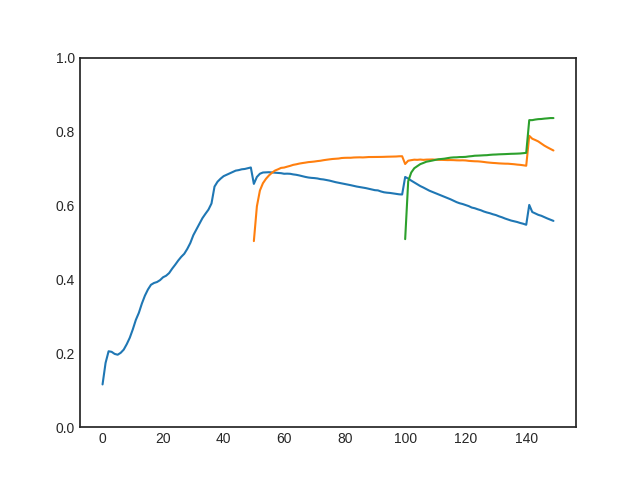
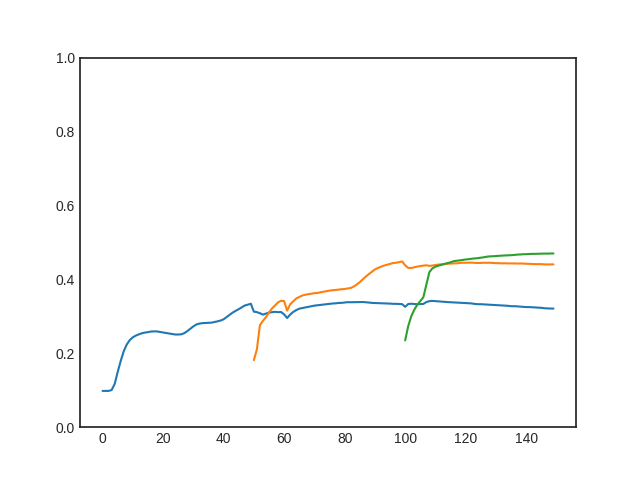
Bug fixes

diff --git a/utils.py b/utils.py
@@ -17,12 +17,14 @@ class EWC(object):
     def __init__(self, model: nn.Module, dataset: list, config):
 
         self.model = model
-        self.dataset = dataset
+        self.data_domain = dataset
         self.config = config
+        self.nllloss = torch.nn.NLLLoss()
 
         self.params = {n: p for n, p in self.model.named_parameters() if p.requires_grad}
         self._means = {}
         self._precision_matrices = self._diag_fisher()
+
 
         for n, p in deepcopy(self.params).items():
             self._means[n] = variable(p.data)
@@ -35,17 +37,17 @@ class EWC(object):
             precision_matrices[n] = p
 
         self.model.eval()
-        for input_data_number, input_data in enumerate(self.dataset):
+        for input_data_number, (x, l, lab) in enumerate(self.data_domain):
             self.model.zero_grad()
-            input = variable(input_data[0])
-            output = self.model(input, torch.tensor([117] * self.config.previous_random_sample_size)).view(1, -1)
-            label = output.max(1)[1].view(-1)
-            loss = F.nll_loss(F.log_softmax(output, dim=1), label)
+            input = variable(x)
+            output = self.model(input, l).squeeze(0)
+            label = torch.argmax(output, dim=1).cuda()
+            loss = self.nllloss(F.log_softmax(output, dim=1), label)
             loss.backward()
 
             for n, p in self.model.named_parameters():
                 if p.grad is not None:
-                    precision_matrices[n].data += p.grad.data ** 2 / len(self.dataset)
+                    precision_matrices[n].data += p.grad.data ** 2 / (l.shape[0])
 
         precision_matrices = {n: p for n, p in precision_matrices.items()}
         torch.backends.cudnn.enabled = True

diff --git a/main_phone.py b/main_phone.py
@@ -44,7 +44,7 @@ config = {
     "num_layers": 5,
     "hidden_dim": 512,
     "feature_dim": 13,
-    "epochs": 2,
+    "epochs": 100,
     "learning_rate": .001,
     "dropout": 0,
     "num_classes": 42,
@@ -153,7 +153,7 @@ def train(train_domain, dev_domain, test_domain_previous_list, previous_dataset_
     old_tasks = []
     if len(previous_dataset_list) > 0:
         for previous_dataset in previous_dataset_list:
-            old_tasks.append(previous_dataset.random_sample(config.previous_random_sample_size))
+            old_tasks.append(torch.utils.data.DataLoader(previous_dataset.random_sample(config.previous_random_sample_size)))
 
     while epoch_i < config.epochs and not lr_below_threshold:
         print("epoch: ", epoch_i)

diff --git a/datasets.py b/datasets.py
@@ -64,10 +64,10 @@ class nnetDatasetSeq(data.Dataset):
 
     def random_sample(self, number_k):
         id = random.sample(self.ids, k=1)[0]
-        x, l, lab = self.__getitem__(id)
-        all_indices = list(np.arange(0, x.shape[0]))
+        x, l, lab = self.__getitem__(self.ids.index(id))
+        all_indices = list(np.arange(0, l))
         indexing_list = random.sample(all_indices, k=number_k)
-        return x[indexing_list], l[indexing_list], lab[indexing_list]
+        return x[indexing_list], number_k, lab[indexing_list]
 
 
 class nnetDataset3Seq(data.Dataset):
